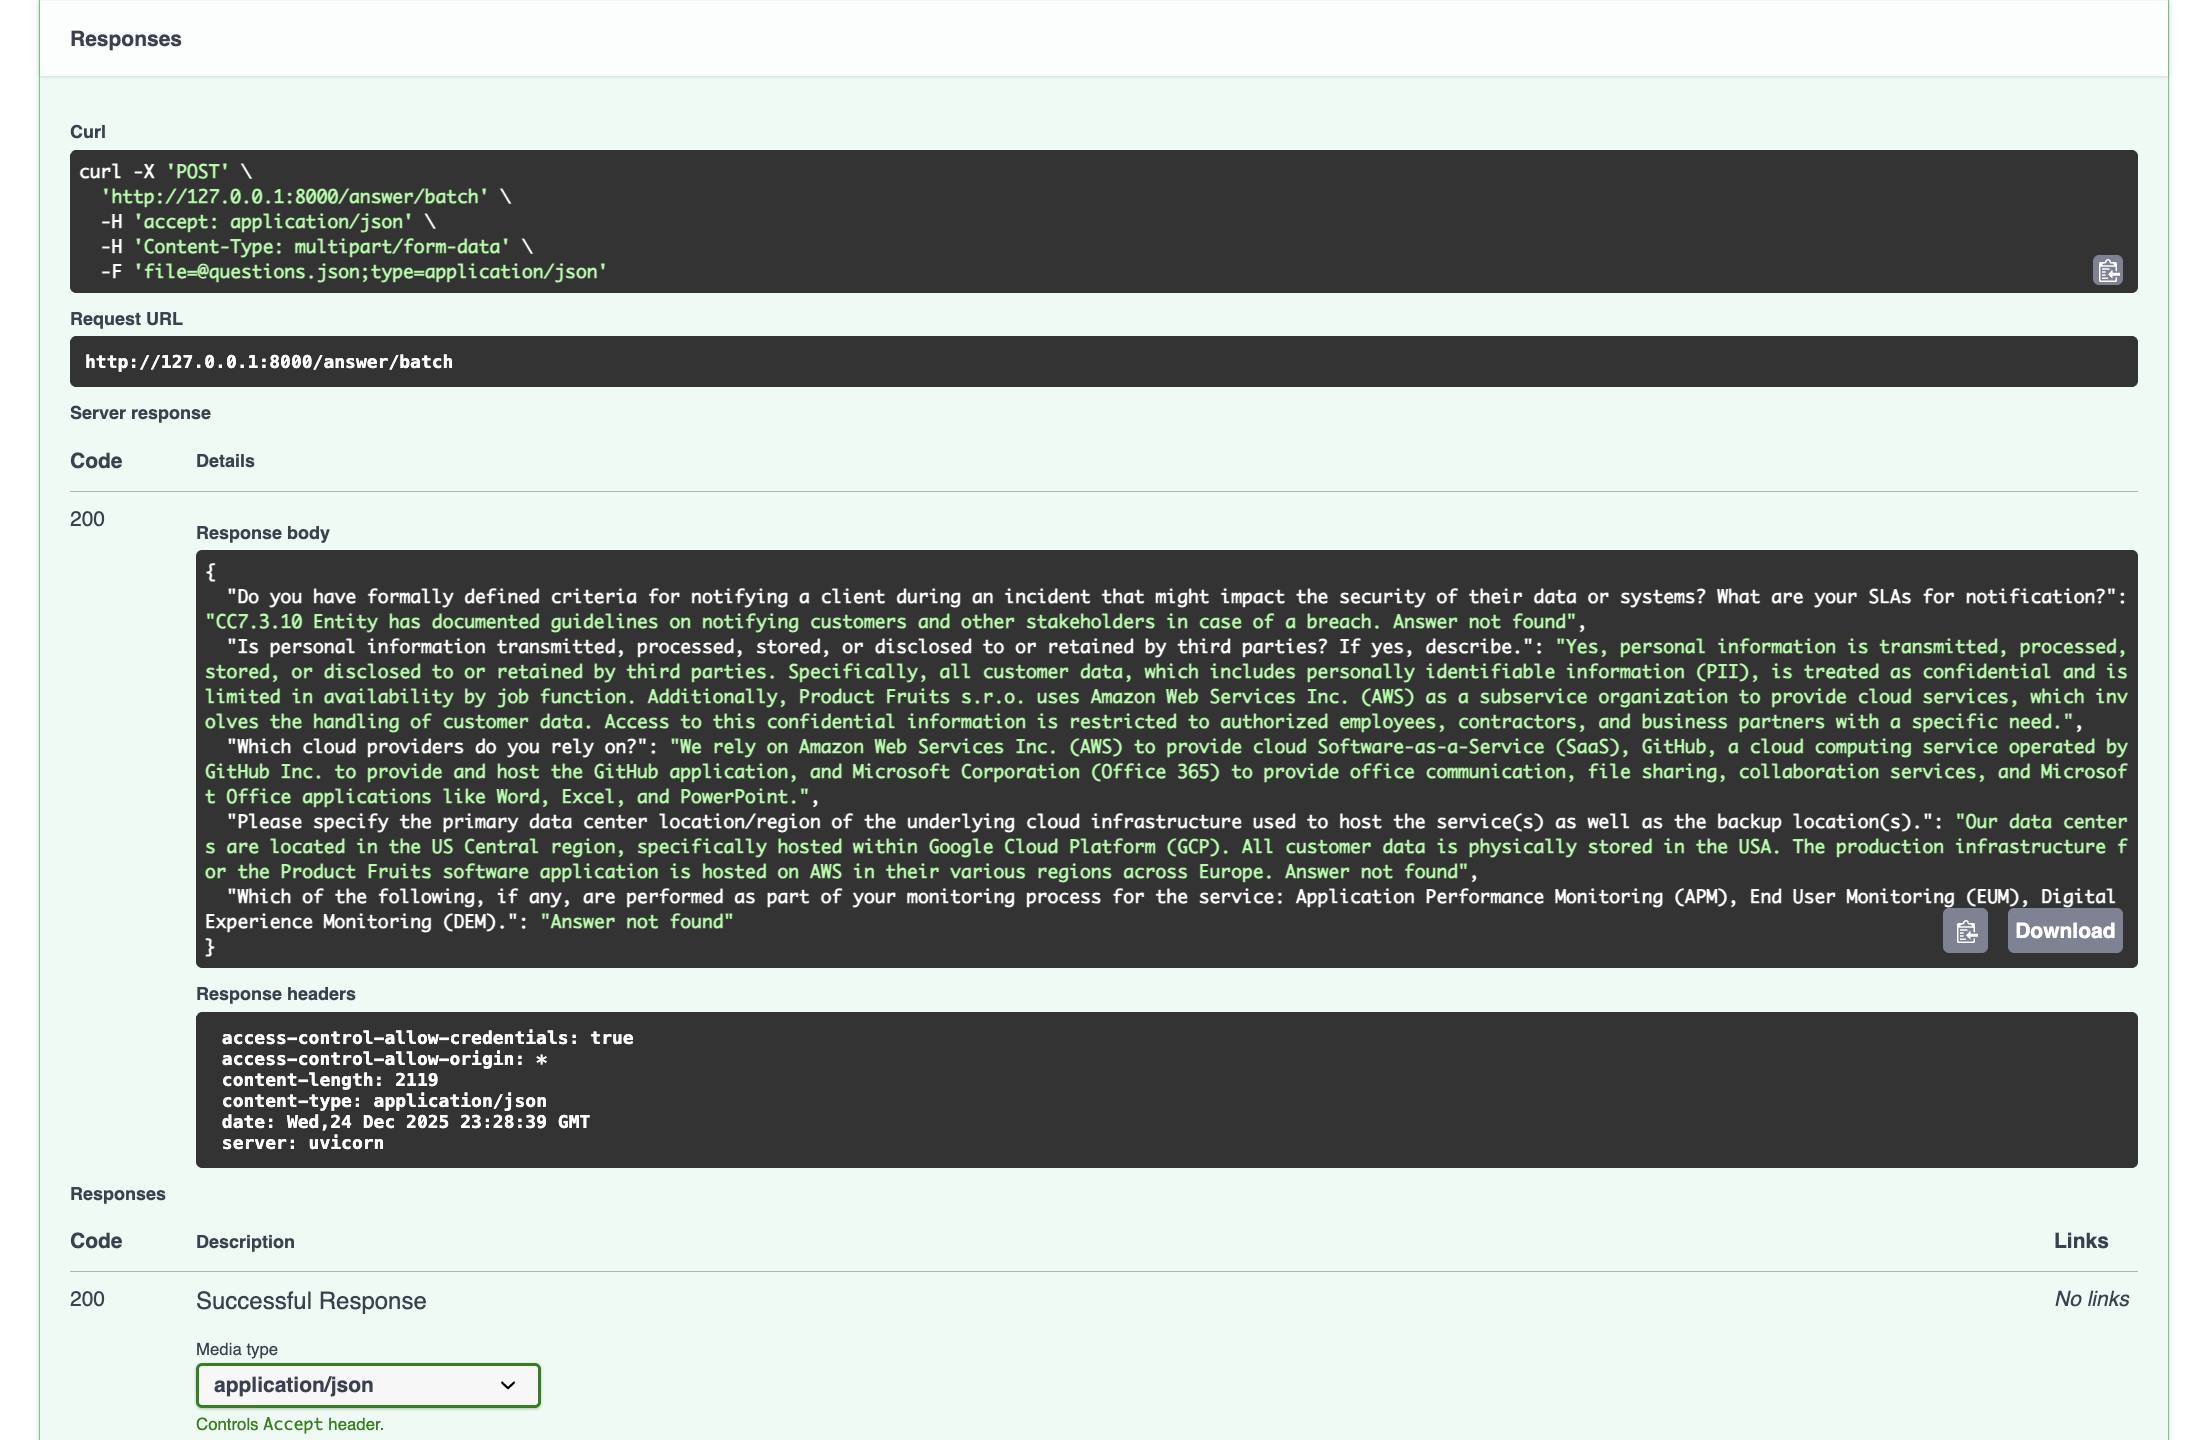
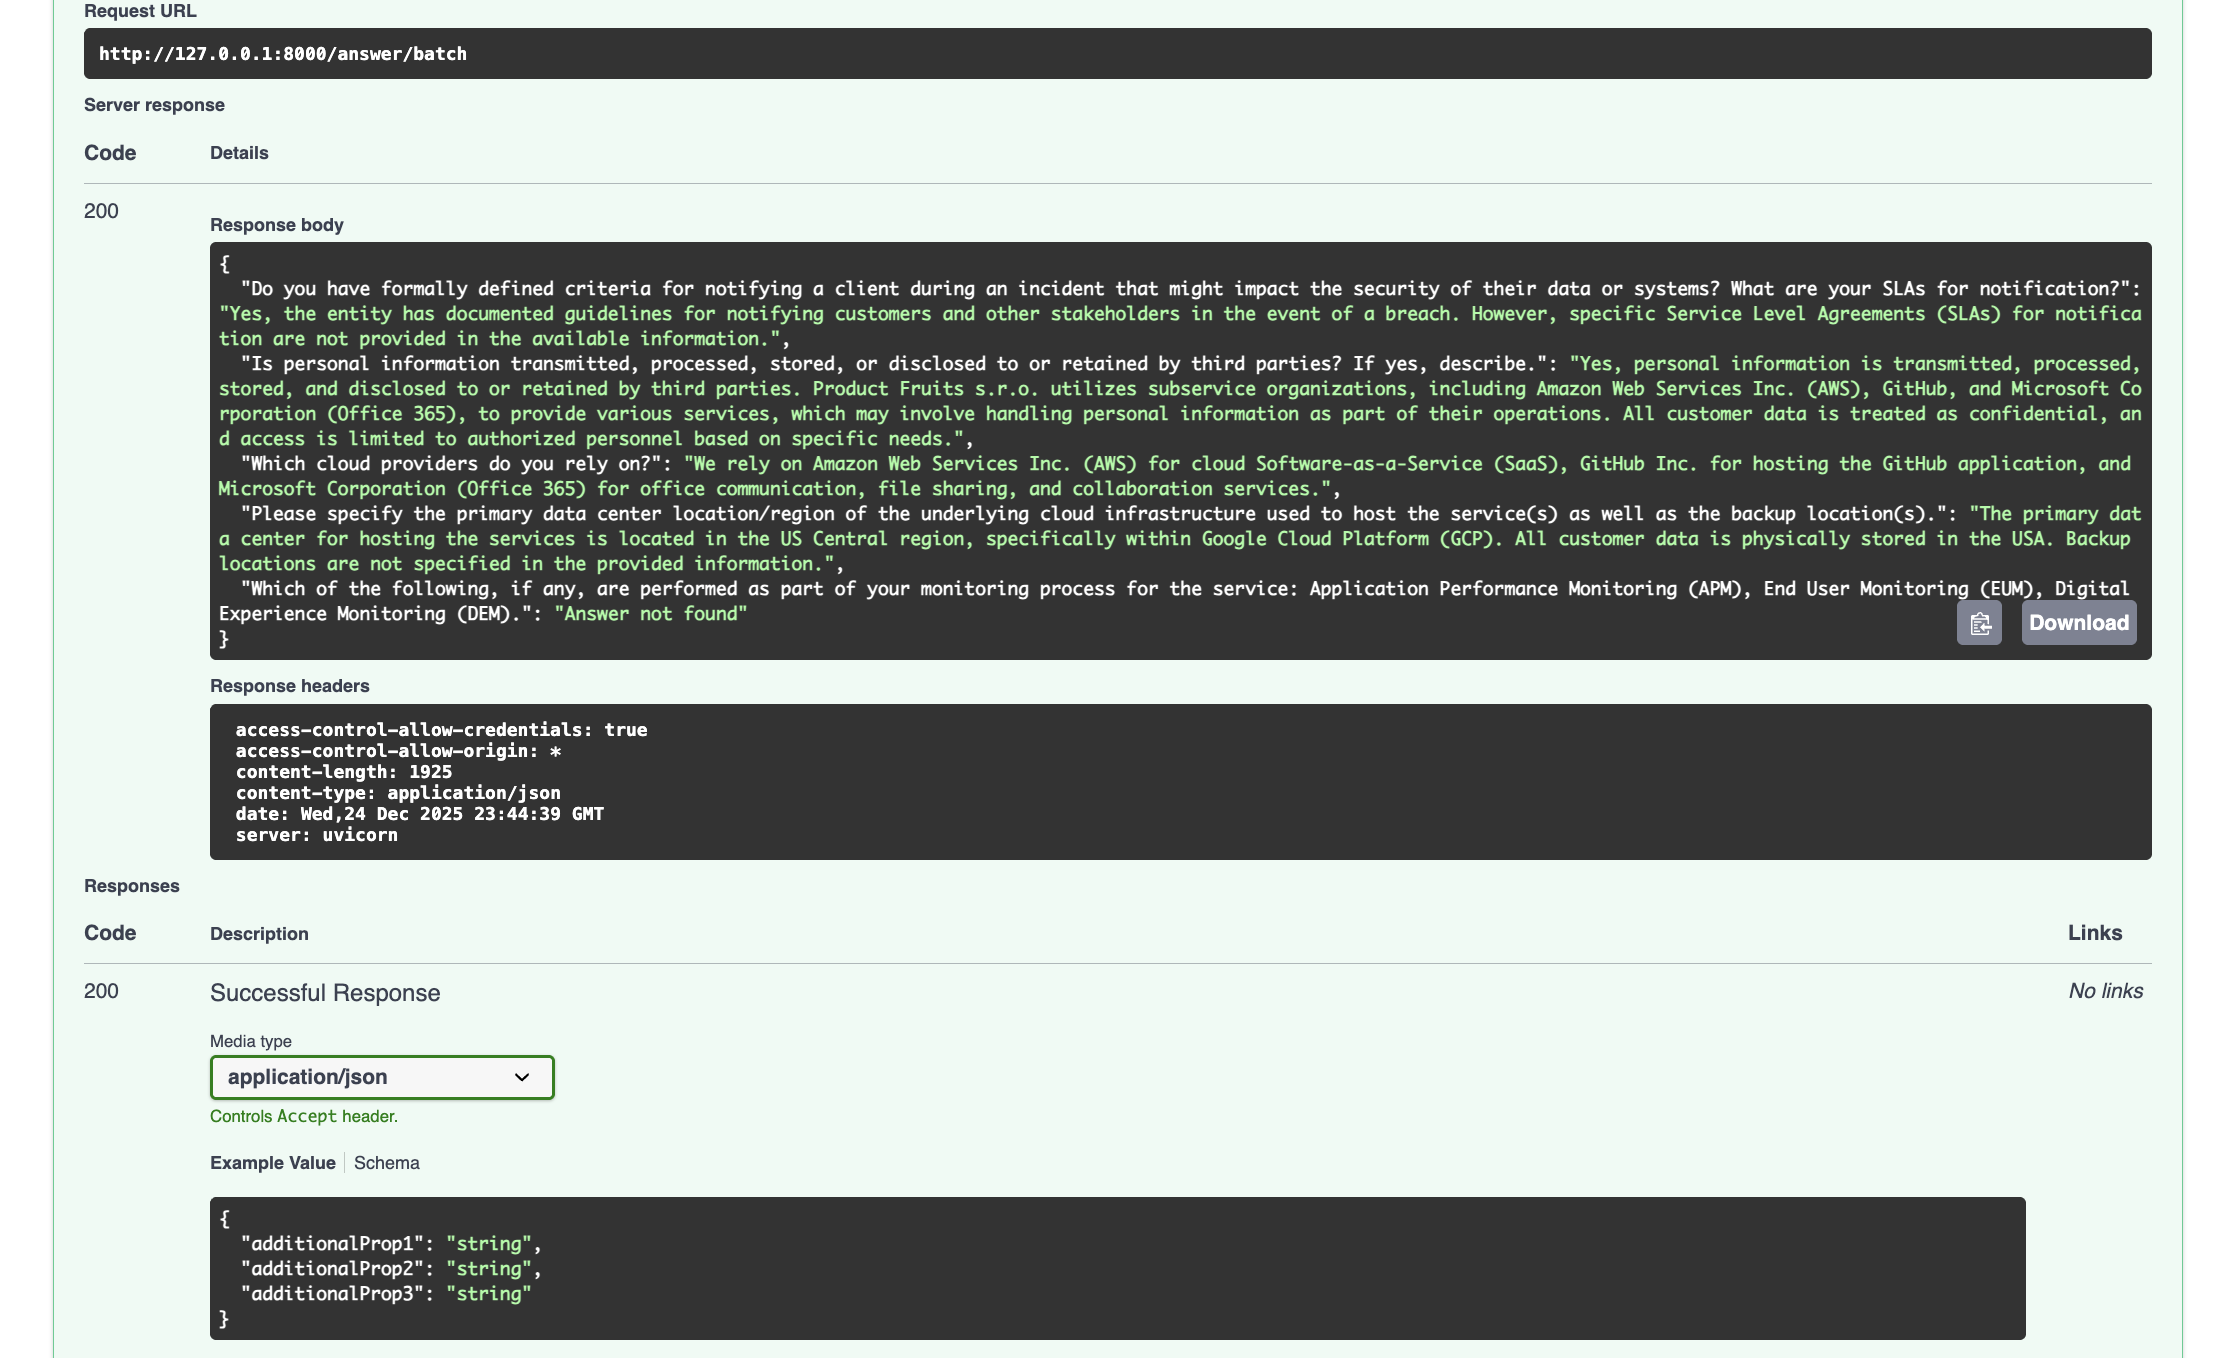
improve prompt

diff --git a/docqa-api/site/index.html b/docqa-api/site/index.html
@@ -215,6 +215,24 @@
         
       
       
+        <label class="md-nav__link md-nav__link--active" for="__toc">
+          
+  
+  
+  <span class="md-ellipsis">
+    
+  
+    Home
+  
+
+    
+  </span>
+  
+  
+
+          <span class="md-nav__icon md-icon"></span>
+        </label>
+      
       <a href="." class="md-nav__link md-nav__link--active">
         
   
@@ -231,6 +249,58 @@
   
 
       </a>
+      
+        
+
+<nav class="md-nav md-nav--secondary" aria-label="Table of contents">
+  
+  
+  
+    
+  
+  
+    <label class="md-nav__title" for="__toc">
+      <span class="md-nav__icon md-icon"></span>
+      Table of contents
+    </label>
+    <ul class="md-nav__list" data-md-component="toc" data-md-scrollfix>
+      
+        <li class="md-nav__item">
+  <a href="#what-it-does" class="md-nav__link">
+    <span class="md-ellipsis">
+      
+        What it does
+      
+    </span>
+  </a>
+  
+</li>
+      
+        <li class="md-nav__item">
+  <a href="#users" class="md-nav__link">
+    <span class="md-ellipsis">
+      
+        Users
+      
+    </span>
+  </a>
+  
+</li>
+      
+        <li class="md-nav__item">
+  <a href="#how-it-works" class="md-nav__link">
+    <span class="md-ellipsis">
+      
+        How it works
+      
+    </span>
+  </a>
+  
+</li>
+      
+    </ul>
+  
+</nav>
       
     </li>
   
@@ -420,6 +490,47 @@
     
   
   
+    <label class="md-nav__title" for="__toc">
+      <span class="md-nav__icon md-icon"></span>
+      Table of contents
+    </label>
+    <ul class="md-nav__list" data-md-component="toc" data-md-scrollfix>
+      
+        <li class="md-nav__item">
+  <a href="#what-it-does" class="md-nav__link">
+    <span class="md-ellipsis">
+      
+        What it does
+      
+    </span>
+  </a>
+  
+</li>
+      
+        <li class="md-nav__item">
+  <a href="#users" class="md-nav__link">
+    <span class="md-ellipsis">
+      
+        Users
+      
+    </span>
+  </a>
+  
+</li>
+      
+        <li class="md-nav__item">
+  <a href="#how-it-works" class="md-nav__link">
+    <span class="md-ellipsis">
+      
+        How it works
+      
+    </span>
+  </a>
+  
+</li>
+      
+    </ul>
+  
 </nav>
                   </div>
                 </div>
@@ -436,6 +547,30 @@
 
 
 <h1 id="docqa">DocQA</h1>
+<p><strong>DocQA</strong> is a document-grounded Question Answering API. Upload a <strong>PDF or JSON</strong> as a knowledge base and ask questions to receive <strong>answers strictly derived from the document</strong>, with traceable sources.
+It is designed for <strong>automation, compliance (GRC), and knowledge extraction</strong> workflows.</p>
+<h2 id="what-it-does">What it does</h2>
+<ol>
+<li><strong>Ingest documents</strong><br />
+   Upload PDF or JSON files and index them into a vector database.</li>
+<li><strong>Ask questions</strong><br />
+   Submit a single question or a batch of questions as JSON.</li>
+<li><strong>Get grounded answers</strong><br />
+   Responses are generated using a RAG pipeline and are based only on retrieved document chunks.</li>
+</ol>
+<h2 id="users">Users</h2>
+<ul>
+<li><strong>Developer</strong> – uploads documents and manages the knowledge base  </li>
+<li><strong>Consumer</strong> – submits questions as JSON and receives answers</li>
+</ul>
+<h2 id="how-it-works">How it works</h2>
+<ul>
+<li>Text is <strong>chunked</strong> with configurable size and overlap</li>
+<li>Embeddings are generated using <strong>OpenAI</strong> model.</li>
+<li>Vectors are stored in <strong>FAISS</strong></li>
+<li><strong>Top-k semantic retrieval</strong> is used per question</li>
+<li>Answers are generated with a <strong>RAG pipeline</strong> and cite source chunks</li>
+</ul>
 
 
 

diff --git a/docqa-api/src/docqa_api/api/routes.py b/docqa-api/src/docqa_api/api/routes.py
@@ -1,8 +1,16 @@
+import json
 import os
 import tempfile
-from typing import Dict, Any
+from typing import Any, Dict
 
-from fastapi import APIRouter, Depends, File, UploadFile, HTTPException, Body
+from fastapi import (
+    APIRouter,
+    Body,
+    Depends,
+    File,
+    HTTPException,
+    UploadFile,
+)
 
 from docqa.pipeline.engine import QAEngine
 from .deps import get_engine
@@ -68,45 +76,15 @@ def answer(
 def answer_batch(
     file: UploadFile = File(...),
     engine: QAEngine = Depends(get_engine),
-) -> Dict[str, str]:
-    if not file.filename:
-        raise HTTPException(400, "Missing filename")
-
-    if not file.filename.lower().endswith('.json'):
+):
+    if not (file.filename or "").endswith(".json"):
         raise HTTPException(400, "Upload a .json file")
 
-    try:
-        import json
-        content = json.loads(file.file.read().decode('utf-8'))
+    data = json.loads(file.file.read().decode())
+    qs = data if isinstance(data, list) else data["questions"]
 
-        if isinstance(content, list):
-            questions = content
-        elif isinstance(content, dict) and "questions" in content:
-            questions = content["questions"]
-        else:
-            raise HTTPException(
-                status_code=400,
-                detail="JSON file must be either an array of questions or an object with a 'questions' key containing an array.",
-            )
-
-        if not isinstance(questions, list) or not questions:
-            raise HTTPException(
-                status_code=400,
-                detail="Questions must be a non-empty list of strings.",
-            )
-
-        cleaned: list[str] = []
-        for q in questions:
-            if not isinstance(q, str) or not q.strip():
-                raise HTTPException(
-                    status_code=400,
-                    detail="All items in 'questions' must be non-empty strings.",
-                )
-            cleaned.append(q.strip())
-
-        return {q: engine.answer(q)["answer"] for q in cleaned}
-
-    except json.JSONDecodeError:
-        raise HTTPException(400, "Invalid JSON file")
-    except Exception as e:
-        raise HTTPException(500, f"Error processing file: {str(e)}")
+    return {
+        q.strip(): engine.answer(q.strip())["answer"]
+        for q in qs
+        if isinstance(q, str) and q.strip()
+    }

diff --git a/docqa/src/docqa/llm/prompts.py b/docqa/src/docqa/llm/prompts.py
@@ -2,10 +2,19 @@ def build_grounded_prompt(*, context: str, question: str) -> str:
     return f"""
 You are a security and compliance documentation assistant.
 
-Answer the question using ONLY the information in the Information section.
-- Do NOT use outside knowledge.
-- Do NOT guess or infer.
-- Only if the answer is not present then respond exactly with: Answer not found
+Use ONLY the Information section to answer the question.
+You may:
+- Paraphrase text
+- Combine multiple relevant statements
+- Reformat the answer for clarity
+
+You must NOT:
+- Use outside knowledge
+- Add assumptions
+- Invent details
+
+If the Information section does not contain a clear answer,
+respond exactly with: Answer not found
 
 Information:
 {context}
@@ -13,5 +22,5 @@ Information:
 Question:
 {question}
 
-Answer:
+Answer (concise and factual):
 """.strip()

diff --git a/docqa/src/docqa/config.py b/docqa/src/docqa/config.py
@@ -42,11 +42,11 @@ class Settings(BaseSettings):
     # Retrieval
     # -----------------------
     retrieval_type: str = Field(
-        default="mmr", description="similarity | mmr | similarity_score_threshold")
+        default="similarity", description="similarity | mmr | similarity_score_threshold")
     retrieval_k: int = Field(
-        default=20, description="How many chunks to return")
+        default=100, description="How many chunks to return")
     retrieval_fetch_k: int = Field(
-        default=10, description="MMR only: candidates to fetch before reranking")
+        default=50, description="MMR only: candidates to fetch before reranking")
     retrieval_lambda_mult: float = Field(
         default=0.5, description="MMR only: 0=more diverse, 1=more relevant")
     score_threshold: float = Field(

diff --git a/docqa-api/tests/test_api.py b/docqa-api/tests/test_api.py
@@ -42,12 +42,6 @@ class TestAPI:
         assert response.status_code == 400
         assert "Upload a .json file" in response.json()["detail"]
 
-    def test_answer_batch_invalid_json(self, client):
-        response = client.post("/answer/batch", files={"file": ("test.json", "invalid json")})
-        
-        assert response.status_code == 400
-        assert "Invalid JSON file" in response.json()["detail"]
-
     def test_answer_batch_direct_array_format(self, client):
         questions_data = [
             "What is the company name?",

diff --git a/docqa/src/docqa/pipeline/engine.py b/docqa/src/docqa/pipeline/engine.py
@@ -125,7 +125,7 @@ class QAEngine:
 
             # Combine docs with scores for context building
             docs_and_scores: List[Tuple[Document, float]] = [
-                (doc, score if scores and i < len(scores) else 0.0)
+                (doc, scores[i] if scores and i < len(scores) else 0.0)
                 for i, doc in enumerate(docs)
             ]
 

diff --git a/docqa-api/docs/index.md b/docqa-api/docs/index.md
@@ -1,1 +1,23 @@
 # DocQA
+
+**DocQA** is a document-grounded Question Answering API. Upload a **PDF or JSON** as a knowledge base and ask questions to receive **answers strictly derived from the document**, with traceable sources.
+It is designed for **automation, compliance (GRC), and knowledge extraction** workflows.
+
+## What it does
+1. **Ingest documents**  
+   Upload PDF or JSON files and index them into a vector database.
+2. **Ask questions**  
+   Submit a single question or a batch of questions as JSON.
+3. **Get grounded answers**  
+   Responses are generated using a RAG pipeline and are based only on retrieved document chunks.
+
+## Users
+- **Developer** – uploads documents and manages the knowledge base  
+- **Consumer** – submits questions as JSON and receives answers
+
+## How it works 
+- Text is **chunked** with configurable size and overlap
+- Embeddings are generated using **OpenAI** model.
+- Vectors are stored in **FAISS**
+- **Top-k semantic retrieval** is used per question
+- Answers are generated with a **RAG pipeline** and cite source chunks
